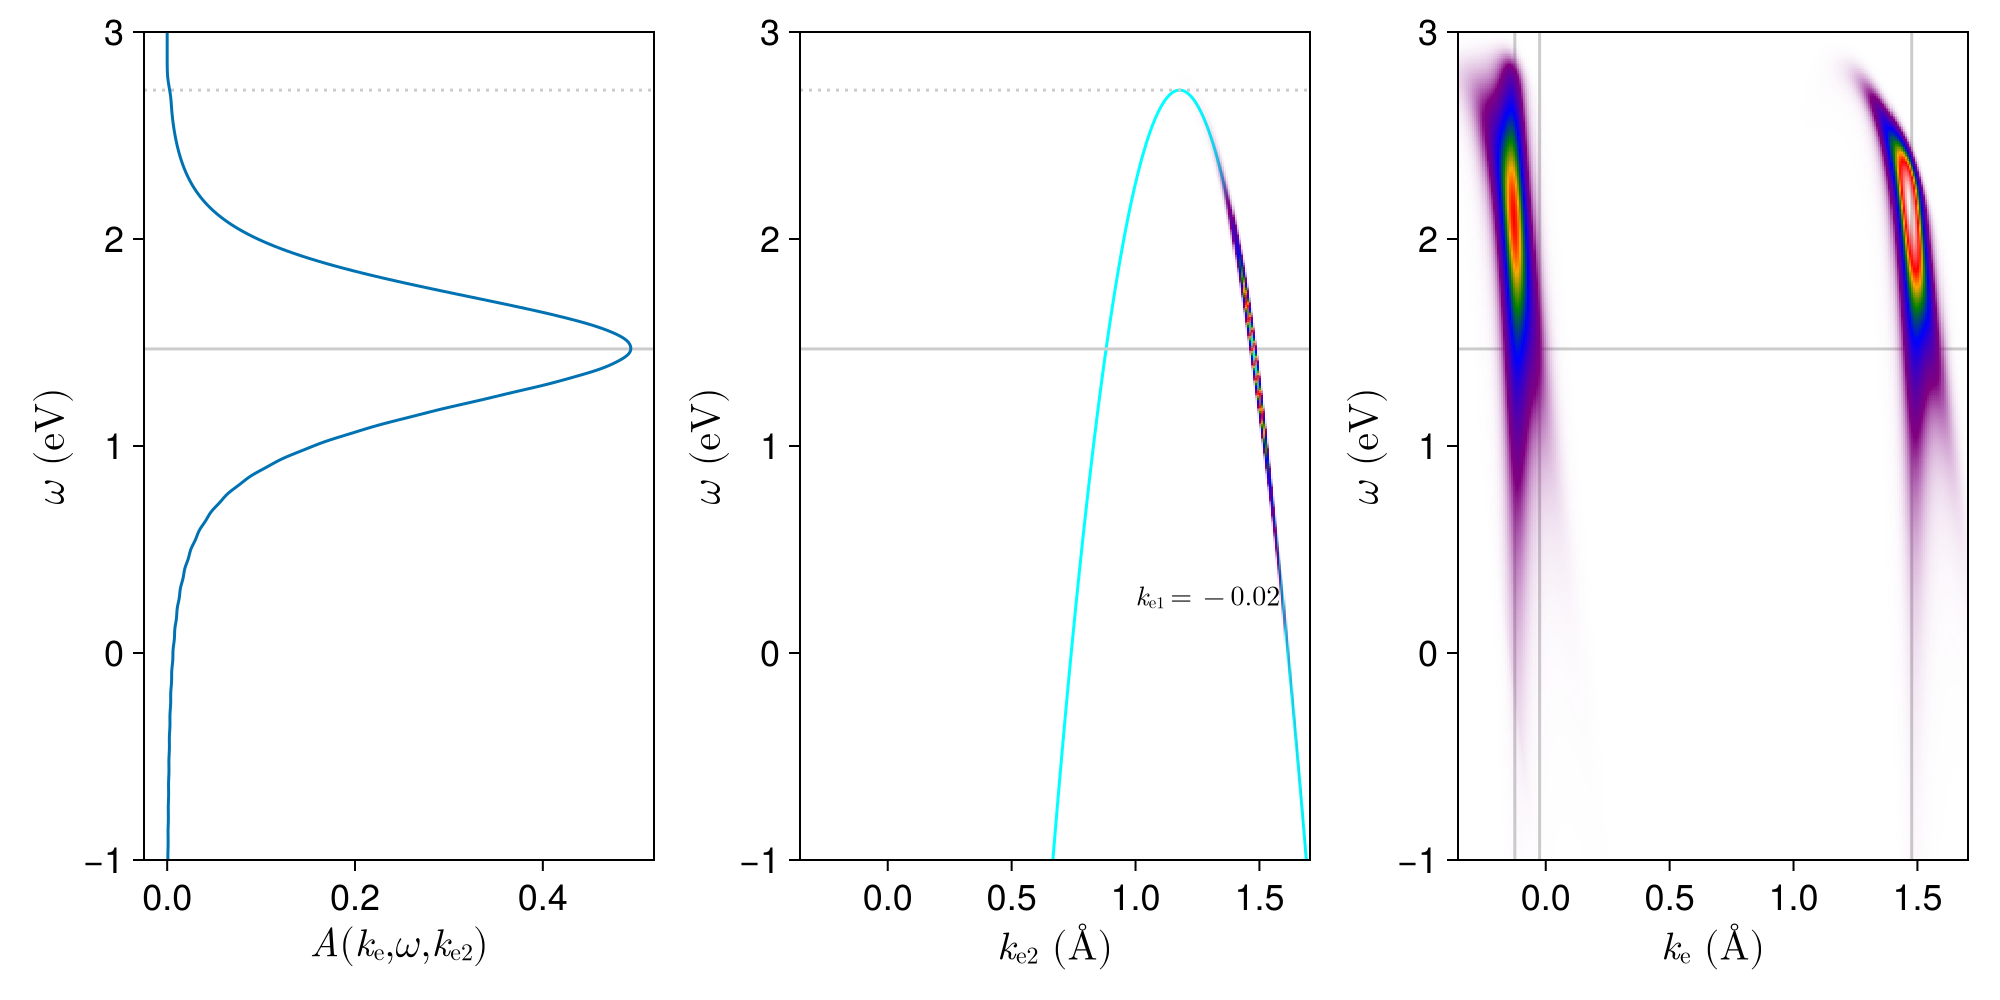
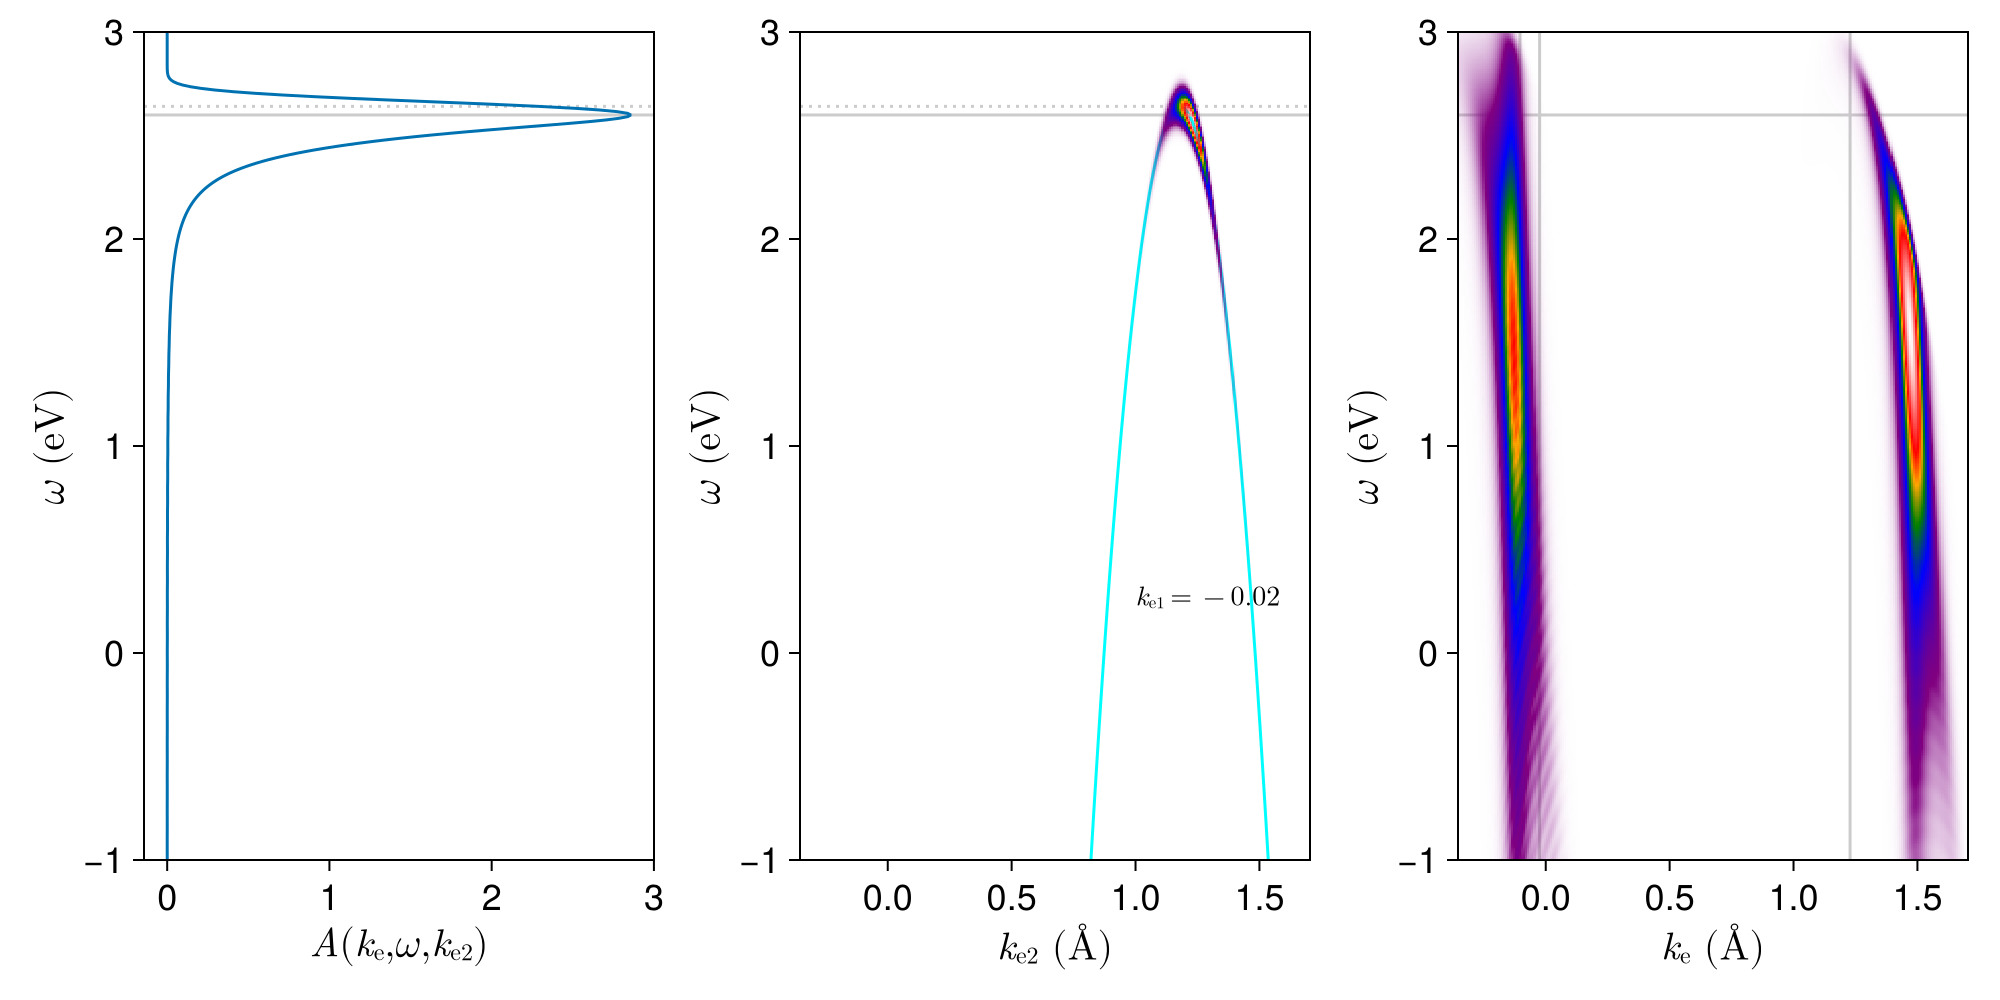
benchmark eeh code

diff --git a/simplified/benchmarks.md b/simplified/benchmarks.md
@@ -65,3 +65,5 @@ The results should be consistent with each other.
 We note that the leftmost panel in the outputs is *not* truly $A(\vb{k}_{\text{e}}, \omega)$,
 because only a subset of possible $\vb{k}_1$ - that is, $\vb{k}_1$ whose $y$ coordinate vanishes - are summed over.
 The last panel in the output of [`ehh-k1-contribution-benchmark.jl`](ehh-k1-contribution-benchmark.jl) is also consistent with the ARPES plot with all $\vb{k}_1$ points (and not just those with zero $k_y$) in the output of [the old `trion-arpes-heatmap-optimized-e1h1h2-double-radii-makie-decomposed.jl`](../src/trion-arpes-heatmap-optimized-e1h1h2-double-radii-makie-decomposed.jl).
+
+Similarly, the output of [`eeh-heatmap-prototype.jl`](eeh-heatmap-prototype.jl) seems consistent with the rightmost panel of the output of the first graphic block in [`trion-arpes-heatmap-optimized-e1e2h1-double-radii-makie-decomposed.jl`](../src/trion-arpes-heatmap-optimized-e1e2h1-double-radii-makie-decomposed.jl).

diff --git a/simplified/eeh-k-contribution.md b/simplified/eeh-k-contribution.md
@@ -1,0 +1,15 @@
+# The contributions of $\vb{k}_{1,2}$'s to the final ARPES heatmap
+
+Running [`eeh-heatmap-prototype.jl`](eeh-heatmap-prototype.jl), we get 
+![Trion ARPES with $\vb{P} = 0.8 \vb{w}$](eeh-P-0.8.png)
+
+In this figure the trion momentum is $\vb{P} = 0.8 \vb{w}$.
+It can be observed that the ARPES signature includes a plurity of dispersion relations,
+similar to the [ehh case](ehh-k1-contribution.md).
+What makes the eeh and the ehh cases different includes
+- The apperance of two signatures, each of which is from a valley, and 
+- the apperance of vertical bars.
+
+This figure is also used to [benchmark the output of the new program with the old program](benchmarks.md#comparison-with-old-codes).
+
+# The structure of the contribution of each 

diff --git a/simplified/README.md b/simplified/README.md
@@ -1,2 +1,3 @@
 - [Benchmark](benchmarks.md)
-- [Analysis of each $\vb{k}_1$ to the ARPES signature of a ehh trion](ehh-k1-contribution.md)
+- [Analysis of the contribution of each $\vb{k}_1$ to the ARPES signature of a ehh trion](ehh-k1-contribution.md)
+- [Analysis of the contribution of each $\vb{k}_1$ and $\vb{k}_2$ to the ARPES signature of a eeh trion](eeh-k-contribution.md)

diff --git a/simplified/ehh-k1-contribution.md b/simplified/ehh-k1-contribution.md
@@ -1,4 +1,4 @@
-# Contribution of each $\vb{k}_1$ to the final ARPES heatmap
+# The contributions of $\vb{k}_1$s to the final ARPES heatmap
 
 Running [`ehh-heatmap-prototype.jl`](ehh-heatmap-prototype.jl), we get 
 ![Trion ARPES with $\vb{P} = 1.2 \vb{w}$](ehh-P-1.2.png)
